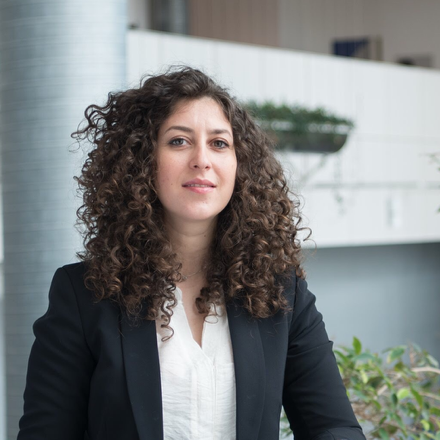
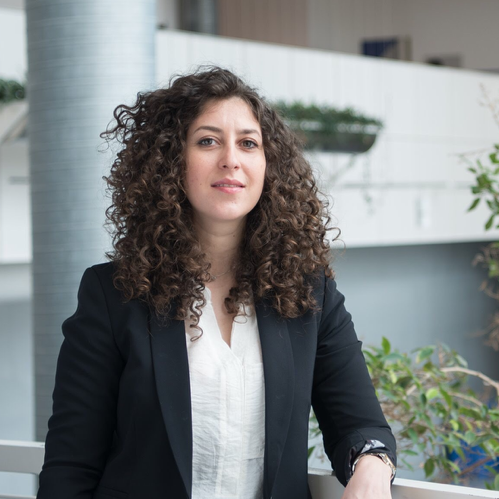
Widen founder photo crops and drop Core strengths lines from bios
- Re-crop both headshots to show shoulders/hands instead of a tight
  face-only crop.
- Remove the "Core strengths" line from both founder bios.

diff --git a/site/about.html b/site/about.html
@@ -108,7 +108,6 @@
             <p class="body-sm mt-2">Mina's path to PMOlogy runs through both project delivery and artificial intelligence — not one or the other. She began her career in project planning and cost control on engineering and construction projects, then moved into data science and machine learning in Canada, where she has spent the past decade teaching, researching, and applying AI at an academic and industry level most PMO leaders never get exposed to.</p>
             <p class="body-sm mt-2">She holds a Bachelor's in Industrial Engineering, an M.Sc. in Business Intelligence, and a Project Management certificate from HEC Montréal, and is a Ph.D. candidate in Artificial Intelligence through dual research at Mila – Quebec Artificial Intelligence Institute and HEC Montréal, focused on trustworthy machine learning. For over ten years, she has also taught machine learning and data science at HEC Montréal to PhD, M.Sc., and MBA students.</p>
             <p class="body-sm mt-2">Her industry experience spans data science and advisory roles at Desjardins and National Bank of Canada — including applied work on hyperparameter tuning through Bayesian optimization — alongside a research internship at Mila and early-career project controls work. As PMOlogy's Co-Founder &amp; CEO, she leads the translation of that research-grade AI expertise into practical, responsible adoption for PMOs and capital program delivery — grounded in evidence, not hype.</p>
-            <p class="body-sm mt-2"><strong>Core strengths:</strong> project controls, trustworthy &amp; applied machine learning, data science strategy, and AI adoption for PMOs and capital program delivery.</p>
           </div>
         </div>
         <div class="grid-2">
@@ -119,7 +118,6 @@
             <p class="body-sm mt-2">Javad's approach to project controls is grounded in the field, not the classroom. Trained as an Industrial Engineer and shaped by over 20 years inside engineering consulting and the construction of infrastructure, mining, and oil &amp; energy projects, he has supported project teams at major engineering consultancy companies across Canada and the United States. That experience gives him a first-hand understanding of how capital programs actually behave under real technical and operational pressure — insight a purely administrative project management background doesn't provide.</p>
             <p class="body-sm mt-2">That engineering foundation, paired with a Master's in Project Management and PMP certification, shapes his data-centric approach: building integrated master schedules, performance baselines, and forensic schedule analysis that hold up because they're rooted in how the work is actually engineered and executed, not just how it's reported.</p>
             <p class="body-sm mt-2">Javad works closely with project and program delivery teams to build robust project controls frameworks — from baseline creation and progress tracking to real-time reporting pipelines that give leadership clear, defensible visibility into program performance. As PMOlogy's Co-Founder &amp; CTO, he also leads the practical application of AI within PMO and project controls environments, extending that same disciplined, data-driven approach to how organizations adopt AI in their delivery operations.</p>
-            <p class="body-sm mt-2"><strong>Core strengths:</strong> project and program controls stand-up, forensic delay analysis, process automation, and AI adoption for PMOs and capital program delivery.</p>
           </div>
         </div>
       </div>
